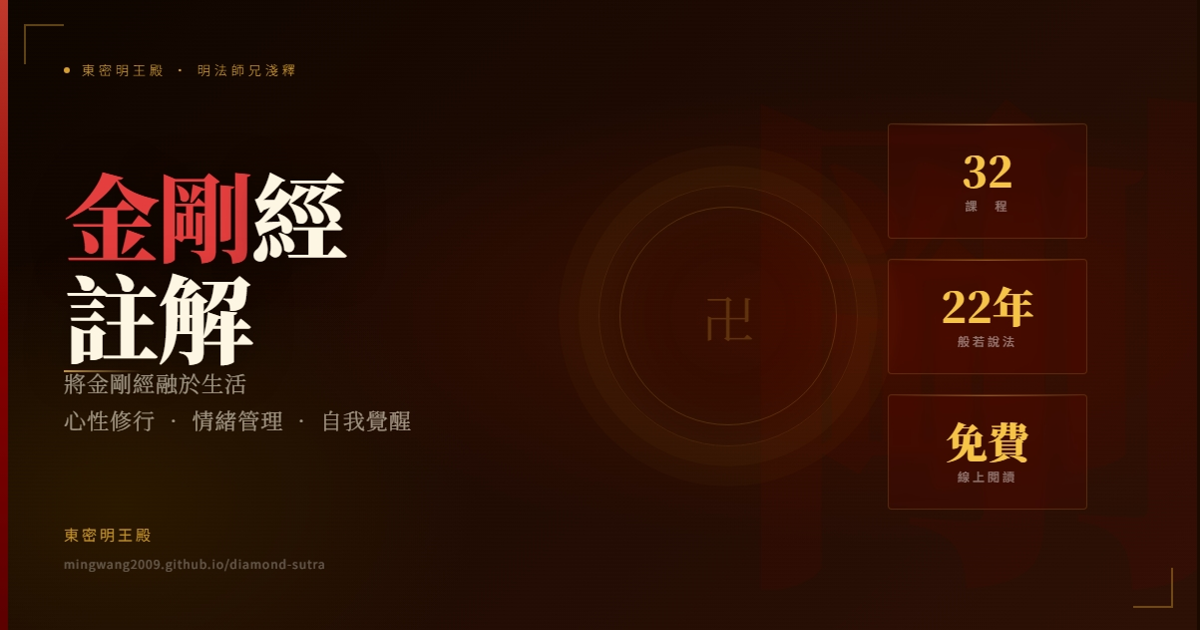
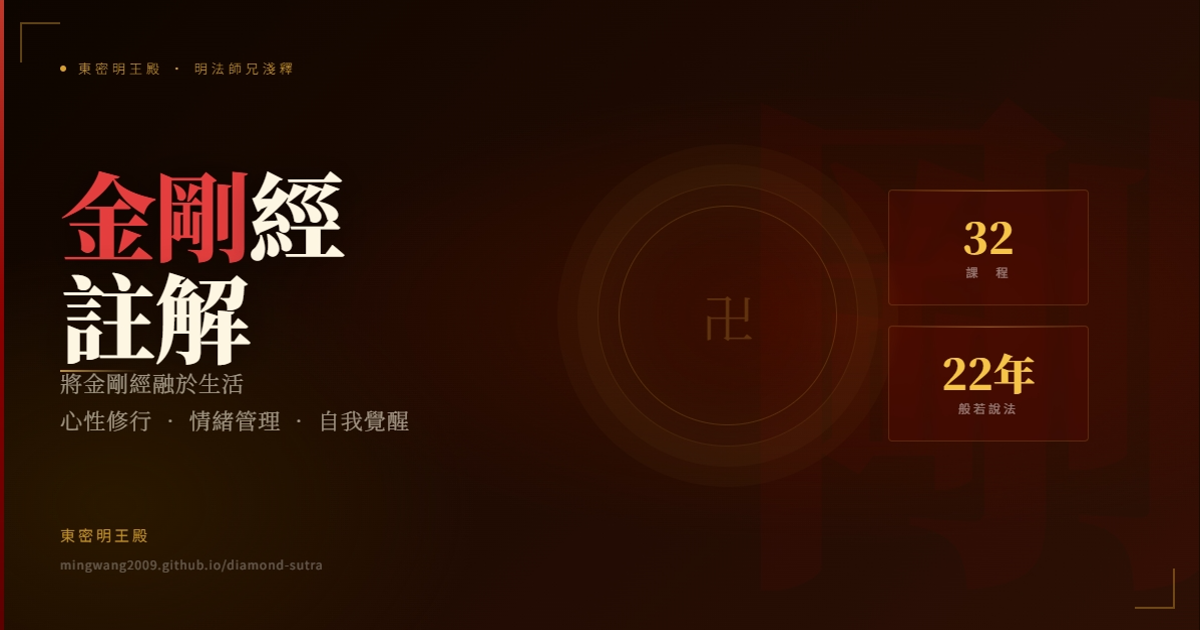
Add files via upload

diff --git a/thumbnail.html b/thumbnail.html
@@ -297,10 +297,6 @@
       <div class="stat-num">22年</div>
       <div class="stat-label">般若說法</div>
     </div>
-    <div class="stat-item">
-      <div class="stat-num">免費</div>
-      <div class="stat-label">線上閱讀</div>
-    </div>
   </div>
 </div>
 </body>
